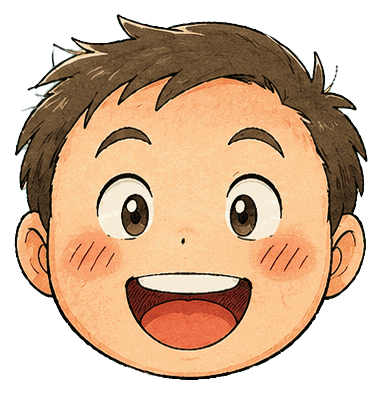
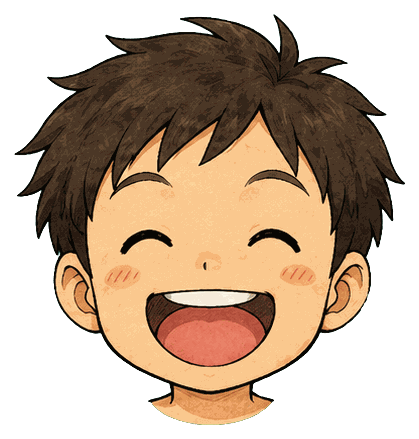
Recolour: swap O7 to the preferred (more detailed) version. Bump v253

diff --git a/index.html b/index.html
@@ -16,12 +16,12 @@
     <link rel="preconnect" href="https://fonts.googleapis.com" />
     <link rel="preconnect" href="https://fonts.gstatic.com" crossorigin />
     <link href="https://fonts.googleapis.com/css2?family=Mochiy+Pop+One&family=Zen+Maru+Gothic:wght@500;700;900&family=IBM+Plex+Mono:wght@500;600&family=Zen+Kaku+Gothic+New:wght@400;500;700&display=swap" rel="stylesheet" />
-    <link rel="stylesheet" href="styles.css?v=252" />
-    <link rel="stylesheet" href="theme.css?v=252" />
-    <link rel="stylesheet" href="ui-polish.css?v=252" />
-    <link rel="stylesheet" href="subway.css?v=252" />
-    <link rel="stylesheet" href="interactive-learning.css?v=252" />
-    <link rel="stylesheet" href="stampbook.css?v=252" />
+    <link rel="stylesheet" href="styles.css?v=253" />
+    <link rel="stylesheet" href="theme.css?v=253" />
+    <link rel="stylesheet" href="ui-polish.css?v=253" />
+    <link rel="stylesheet" href="subway.css?v=253" />
+    <link rel="stylesheet" href="interactive-learning.css?v=253" />
+    <link rel="stylesheet" href="stampbook.css?v=253" />
     <link rel="preload" as="image" href="assets/story/mochiko-think.png" />
   </head>
   <body>
@@ -425,14 +425,14 @@
       </footer>
     </main>
 
-    <script src="lessons.js?v=252"></script>
-    <script src="kana.js?v=252"></script>
-    <script src="emoji.js?v=252"></script>
-    <script src="app.js?v=252"></script>
-    <script src="interactive-learning.js?v=252"></script>
-    <script src="stampbook.js?v=252"></script>
-    <script src="theme.js?v=252"></script>
+    <script src="lessons.js?v=253"></script>
+    <script src="kana.js?v=253"></script>
+    <script src="emoji.js?v=253"></script>
+    <script src="app.js?v=253"></script>
+    <script src="interactive-learning.js?v=253"></script>
+    <script src="stampbook.js?v=253"></script>
+    <script src="theme.js?v=253"></script>
     <!-- collection.js (stamps) removed for now — owner, 2026-07 -->
-    <script src="ui-polish.js?v=252"></script>
+    <script src="ui-polish.js?v=253"></script>
   </body>
 </html>

diff --git a/sw.js b/sw.js
@@ -1,6 +1,6 @@
 // Service worker — offline app shell for the Hanasou PWA.
 // Bump CACHE when the precached shell list changes to evict the old cache.
-const CACHE = "hanasou-v252";
+const CACHE = "hanasou-v253";
 const SHELL = [
   "./",
   "index.html",
